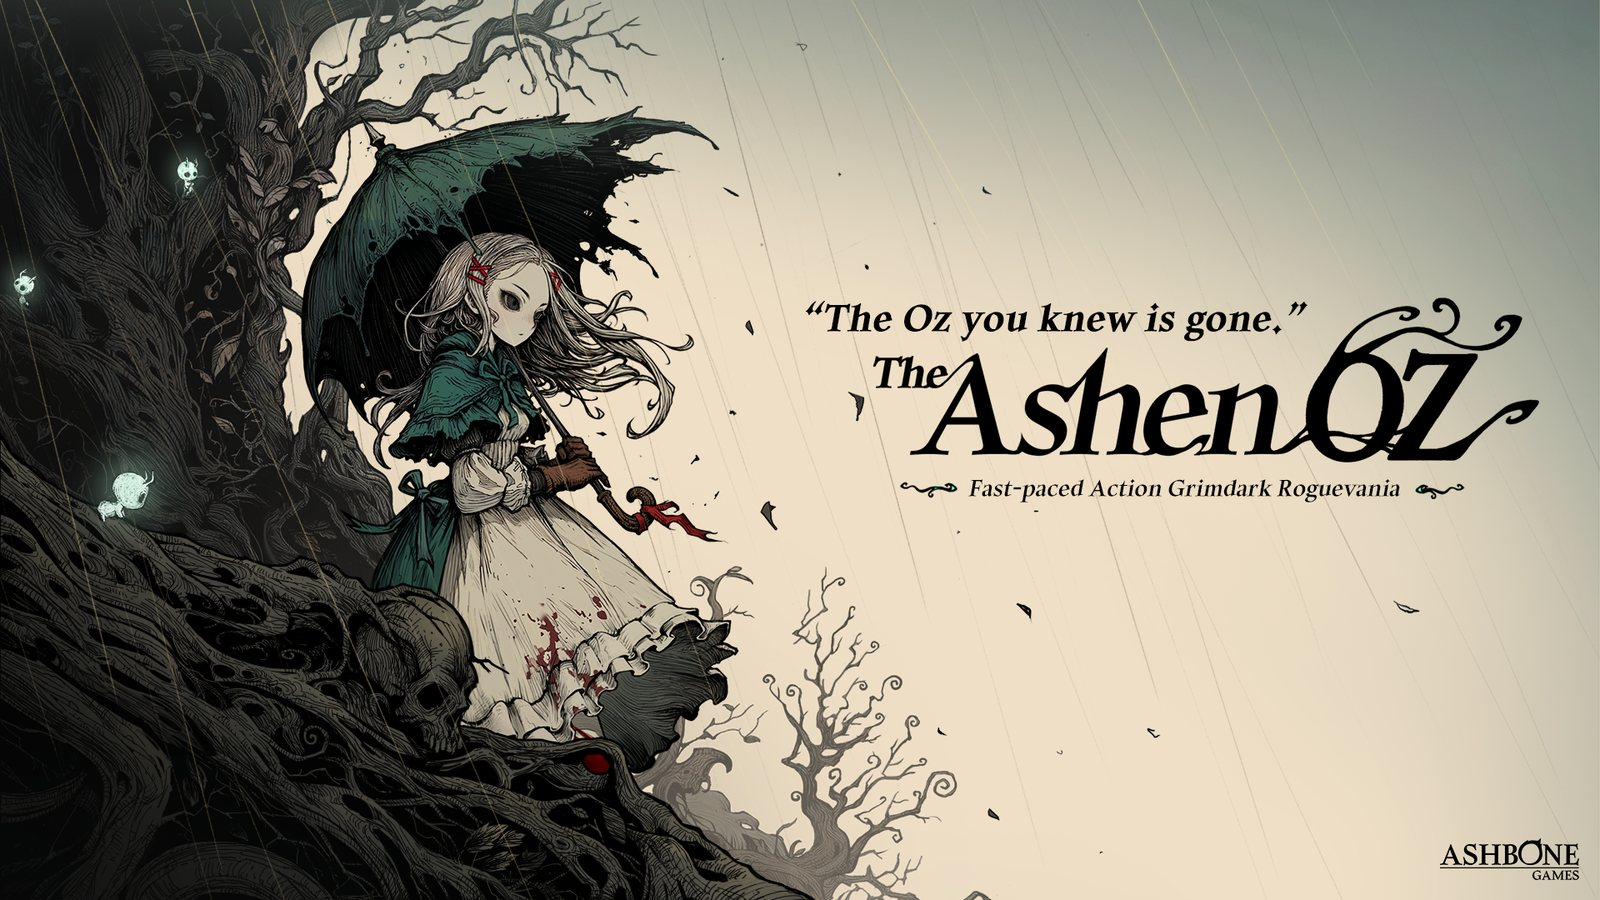
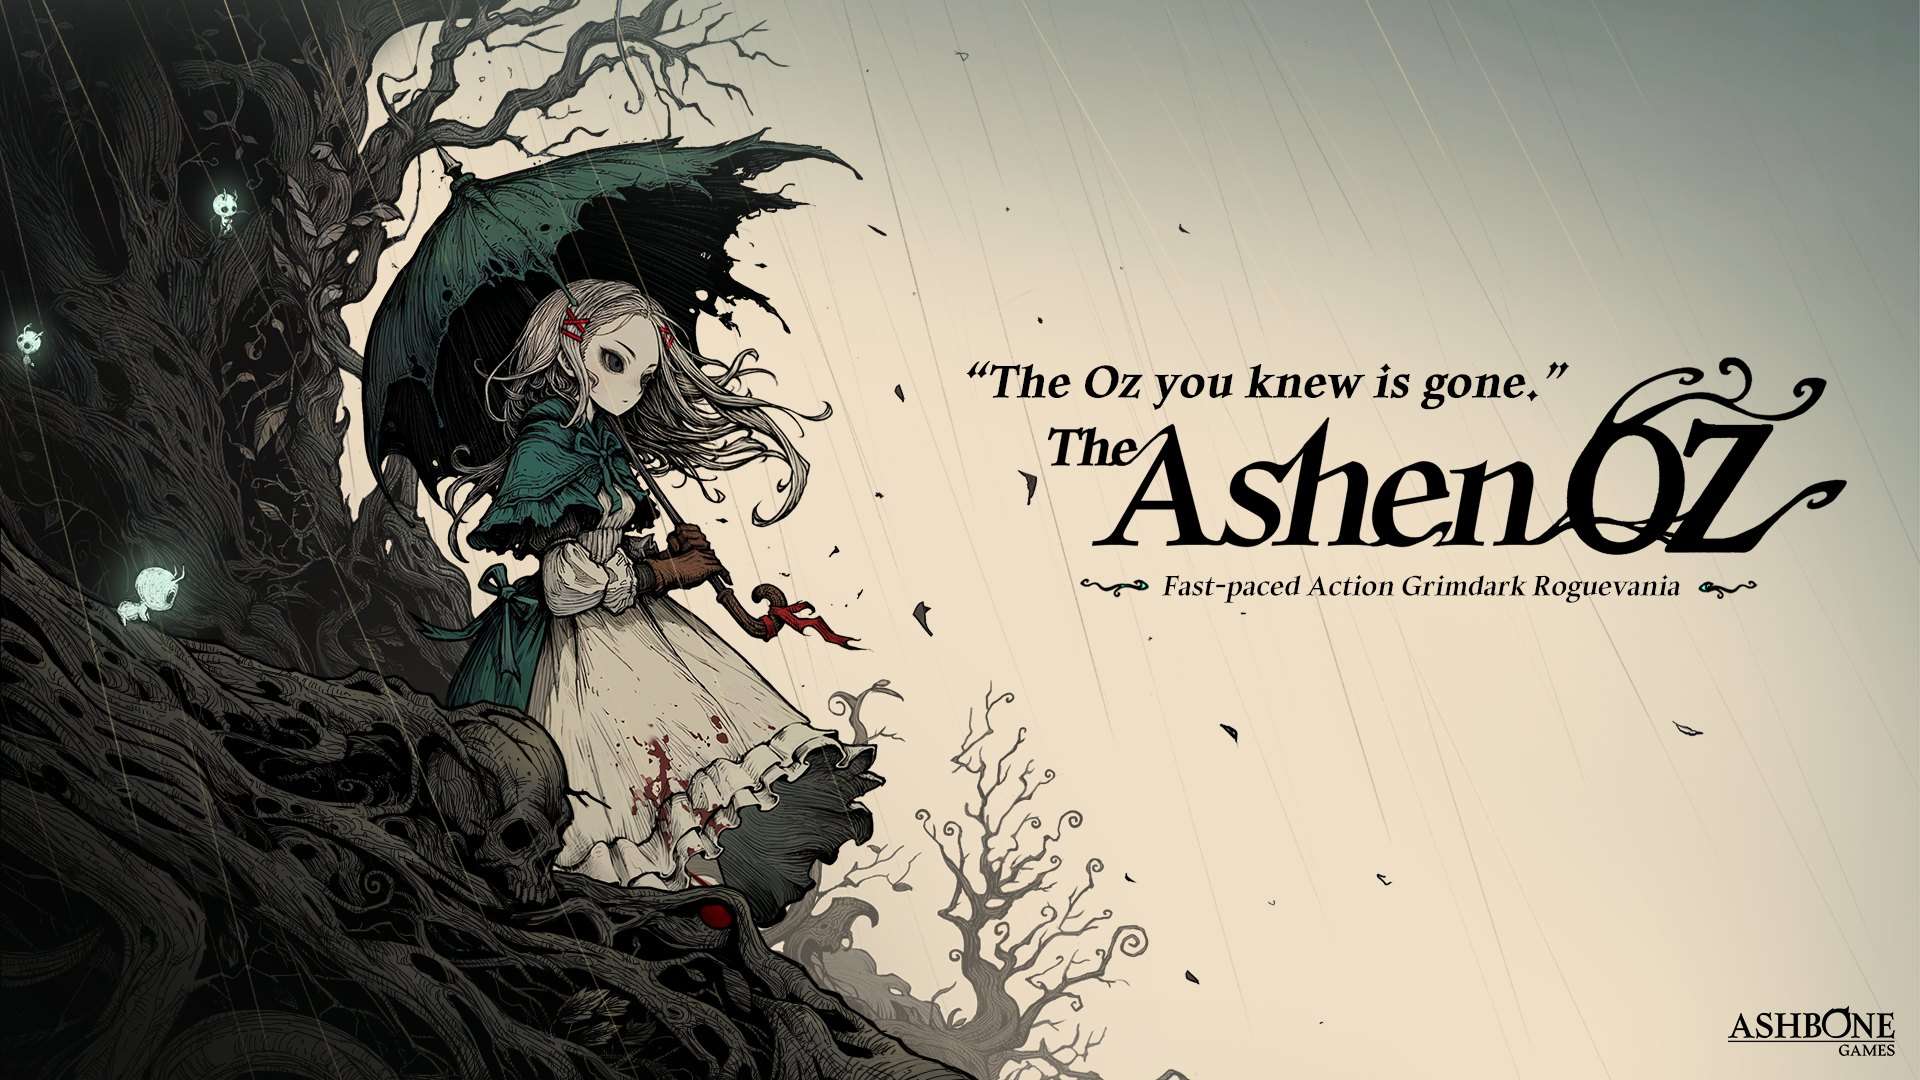
Keep plate images in proportion, use 1080p key art, drop the language line

Changed region(s): [[0.3438, 0.3111, 0.4062, 0.4044], [0.2812, 0.28, 0.3438, 0.3422], [0.9062, 0.9333, 0.9688, 0.9644]]

diff --git a/i18n.js b/i18n.js
@@ -17,7 +17,6 @@
       plate4: "랜턴 불빛 아래",
       verse5: "잿빛 주사위의 루프 속에서,<br>도로시는 절망을 베며 잃어버린 기억을 찾아간다",
       plate5: "당신이 알던 오즈는 사라졌다",
-      finLine: "한국어 · 영어 · 일본어 지원",
       finBtn: "Steam 위시리스트 등록",
       finNote: "위시리스트에 담아 두면 출시 소식을 가장 먼저 받아볼 수 있습니다",
       trailer: "공식 트레일러"
@@ -37,7 +36,6 @@
       plate4: "Under the lantern light",
       verse5: "Inside the loop of the Ashen Dice,<br>Dorothy cuts through despair toward her lost memories",
       plate5: "The Oz you knew is gone",
-      finLine: "Korean · English · Japanese",
       finBtn: "Wishlist on Steam",
       finNote: "Add it to your wishlist and be the first to hear about the release",
       trailer: "Official trailer"
@@ -57,7 +55,6 @@
       plate4: "灯笼的光下",
       verse5: "在灰烬骰子的循环中，<br>桃乐丝斩开绝望，寻回失去的记忆",
       plate5: "你所熟知的奥兹已不复存在",
-      finLine: "支持韩语 · 英语 · 日语",
       finBtn: "加入 Steam 愿望单",
       finNote: "加入愿望单，第一时间获得发售消息",
       trailer: "官方预告片"
@@ -77,7 +74,6 @@
       plate4: "ランタンの灯りの下で",
       verse5: "灰のダイスのループの中で、<br>ドロシーは絶望を斬り、失われた記憶へと向かう",
       plate5: "あなたの知るオズは、もうない",
-      finLine: "韓国語 · 英語 · 日本語対応",
       finBtn: "Steamでウィッシュリスト登録",
       finNote: "ウィッシュリストに入れておくと、発売の知らせをいち早く受け取れます",
       trailer: "公式トレーラー"

diff --git a/index.html b/index.html
@@ -48,7 +48,7 @@
 </section>
 
 <figure class="plate reveal">
-  <img src="img/whale.jpg" alt="사슬에 묶인 거대한 고래 곁을 지나는 소녀" width="1600" height="900">
+  <img src="img/whale.jpg" alt="사슬에 묶인 거대한 고래 곁을 지나는 소녀" width="1920" height="1080">
   <figcaption class="plate-cap"><span>Plate I</span><em data-i18n="plate1">사슬에 묶인 고래</em></figcaption>
 </figure>
 
@@ -84,14 +84,13 @@
 </section>
 
 <figure class="plate reveal">
-  <img src="img/keyart.jpg" alt="비 내리는 잿빛 하늘 아래 우산을 든 도로시" width="1600" height="900" loading="lazy">
+  <img src="img/keyart.jpg" alt="비 내리는 잿빛 하늘 아래 우산을 든 도로시" width="1920" height="1080" loading="lazy">
   <figcaption class="plate-cap"><span>Plate V</span><em data-i18n="plate5">당신이 알던 오즈는 사라졌다</em></figcaption>
 </figure>
 
 <!-- 마무리 -->
 <section class="finale">
   <h2 class="finale-logo reveal"><img src="img/ashenoz-logo.png" alt="The Ashen OZ" width="1200" height="296" loading="lazy"></h2>
-  <p class="finale-line reveal" data-i18n="finLine">한국어 · 영어 · 일본어 지원</p>
   <a class="finale-btn reveal" data-i18n="finBtn" href="https://store.steampowered.com/app/4375420/The_Ashen_OZ/" target="_blank" rel="noopener">Steam 위시리스트 등록</a>
   <p class="finale-note reveal" data-i18n="finNote">위시리스트에 담아 두면 출시 소식을 가장 먼저 받아볼 수 있습니다</p>
   <nav class="links reveal">

diff --git a/style.css b/style.css
@@ -75,7 +75,7 @@ a{color:inherit;text-decoration:none}
 
 /* 풀블리드 플레이트 — 아트북 도판 */
 .plate{margin:0;position:relative;overflow:hidden}
-.plate img,.plate video{width:100%;will-change:transform;transform:scale(1.06)}
+.plate img,.plate video{display:block;width:100%;height:auto;max-height:86vh;object-fit:cover;will-change:transform;transform:scale(1.06)}
 .plate::after{content:"";position:absolute;inset:0;pointer-events:none;
   box-shadow:inset 0 30px 60px -30px var(--deep),inset 0 -30px 60px -30px var(--deep)}
 .plate-cap{position:absolute;left:30px;bottom:22px;z-index:2;font-family:var(--fui);font-size:11.5px;
@@ -87,7 +87,6 @@ a{color:inherit;text-decoration:none}
 .finale{padding:170px 26px 130px;text-align:center}
 .finale-logo{font-family:var(--fdisp);font-weight:400;font-size:clamp(34px,5.5vw,62px);
   letter-spacing:.14em;text-transform:uppercase;color:#eef0ea;margin:0 0 16px}
-.finale-line{font-family:var(--fui);font-size:12.5px;letter-spacing:.08em;color:var(--muted);margin:0 0 42px}
 .finale-btn{display:inline-block;font-family:var(--fui);font-size:14px;font-weight:600;letter-spacing:.1em;
   padding:16px 44px;border-radius:999px;background:#e6e2da;color:#151412;transition:.25s;
   box-shadow:0 16px 46px -18px rgba(0,0,0,.9)}
